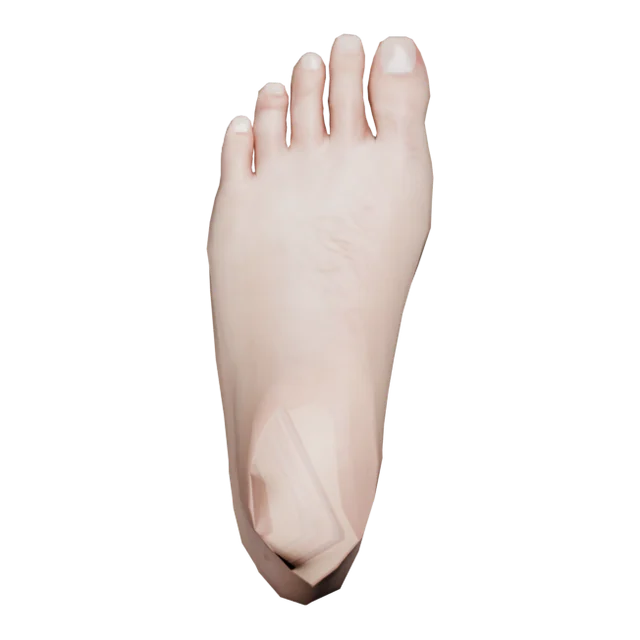
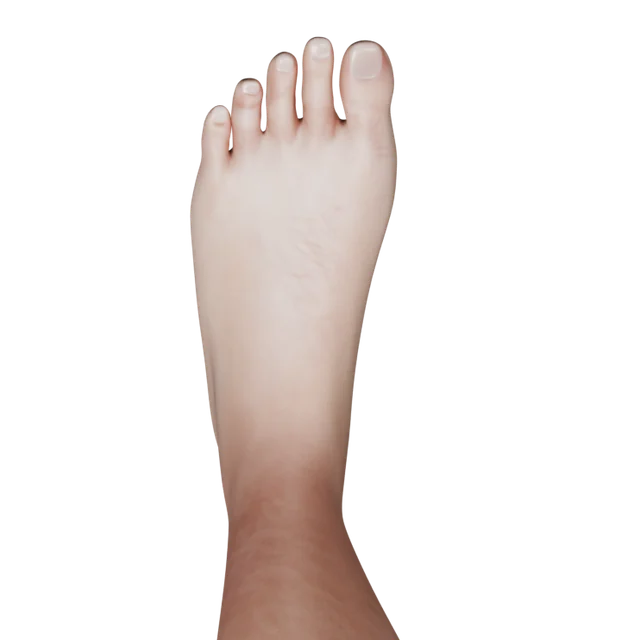
左右判断テスト: 足の画像の踵を自然に（なめらかにし、甲は斜め上から）

Changed region(s): [[0.2812, 0.0312, 0.6875, 1.0]]

diff --git a/scripts/laterality-images/render_feet.py b/scripts/laterality-images/render_feet.py
@@ -1,0 +1,134 @@
+"""MPFB(MakeHuman)の人体から左手・左足だけを残し、4方向から描画する。
+
+blender -b -P render_parts.py -- <out_dir> <skin_name>
+出力: hand-a.png / hand-b.png(手の両面), foot-dorsal.png / foot-plantar.png
+"""
+import bpy, bmesh, sys, os, math
+from mathutils import Vector
+from bl_ext.user_default.mpfb.services import LocationService, HumanService
+
+argv = sys.argv[sys.argv.index("--") + 1:]
+OUT, SKIN = argv[0], argv[1]
+os.makedirs(OUT, exist_ok=True)
+
+
+def jc(obj, name):
+    """関節キューブ(頂点グループ)の中心"""
+    gi = obj.vertex_groups[name].index
+    pts = [v.co for v in obj.data.vertices if any(g.group == gi for g in v.groups)]
+    return sum(pts, Vector()) / len(pts)
+
+
+def build():
+    bpy.ops.wm.read_factory_settings(use_empty=True)
+    h = HumanService.create_human()
+    skin = os.path.join(LocationService.get_user_data(), "skins", SKIN, SKIN + ".mhmat")
+    HumanService.set_character_skin(skin, h, skin_type="ENHANCED_SSS")
+    return h
+
+
+def keep_region(h, keep):
+    """keep(v) が False の頂点を消す(補助形状も消す)"""
+    drop = {h.vertex_groups["HelperGeometry"].index, h.vertex_groups["JointCubes"].index}
+    bm = bmesh.new()
+    bm.from_mesh(h.data)
+    dv = bm.verts.layers.deform.active
+    kill = [v for v in bm.verts if any(g in v[dv] for g in drop) or not keep(v.co)]
+    bmesh.ops.delete(bm, geom=kill, context="VERTS")
+    # 切り口の穴をふさぐ
+    edges = [e for e in bm.edges if e.is_boundary]
+    if edges:
+        bmesh.ops.holes_fill(bm, edges=edges, sides=0)
+    bmesh.ops.recalc_face_normals(bm, faces=bm.faces)
+    bm.to_mesh(h.data)
+    bm.free()
+    for m in list(h.modifiers):
+        h.modifiers.remove(m)
+
+
+def setup_render():
+    sc = bpy.context.scene
+    sc.render.engine = "CYCLES"
+    sc.cycles.samples = 96
+    sc.cycles.use_denoising = True
+    sc.render.resolution_x = 900
+    sc.render.resolution_y = 900
+    sc.render.film_transparent = True
+    sc.view_settings.view_transform = "AgX"
+    world = bpy.data.worlds.new("w")
+    sc.world = world
+    world.use_nodes = True
+    world.node_tree.nodes["Background"].inputs[1].default_value = 0.6
+
+
+def light(loc, energy, size=0.6):
+    ld = bpy.data.lights.new("l", "AREA")
+    ld.energy = energy
+    ld.size = size
+    lo = bpy.data.objects.new("l", ld)
+    bpy.context.collection.objects.link(lo)
+    lo.location = loc
+    lo.rotation_euler = (Vector(loc) * -1).to_track_quat("-Z", "Y").to_euler()
+    return lo
+
+
+def shoot(target, normal, up, dist, name, ortho):
+    sc = bpy.context.scene
+    cam_d = bpy.data.cameras.new("c")
+    cam_d.type = "ORTHO"
+    cam_d.ortho_scale = ortho
+    cam = bpy.data.objects.new("c", cam_d)
+    bpy.context.collection.objects.link(cam)
+    sc.camera = cam
+    pos = target + normal.normalized() * dist
+    cam.location = pos
+    cam.rotation_euler = (target - pos).to_track_quat("-Z", "Y").to_euler()
+    # 上方向を up に合わせる
+    q = (target - pos).to_track_quat("-Z", "Y")
+    cur_up = q @ Vector((0, 1, 0))
+    fwd = (target - pos).normalized()
+    want = (up - fwd * up.dot(fwd)).normalized()
+    ang = math.atan2(cur_up.cross(want).dot(fwd), cur_up.dot(want))
+    from mathutils import Quaternion
+    cam.rotation_euler = (Quaternion(fwd, ang) @ q).to_euler()
+    # 光: カメラ側から2灯
+    side = fwd.cross(want).normalized()
+    ls = [light(pos + want * 0.5 + side * 0.4, 60), light(pos - side * 0.6, 25)]
+    sc.render.filepath = os.path.join(OUT, name)
+    bpy.ops.render.render(write_still=True)
+    for o in ls + [cam]:
+        bpy.data.objects.remove(o)
+
+
+# ---------- 足(なめらかにして描き直す) ----------
+def smooth(h, levels=2):
+    m = h.modifiers.new("subd", "SUBSURF")
+    m.levels = levels
+    m.render_levels = levels
+
+
+h = build()
+ankle = jc(h, "joint-l-ankle")
+knee = jc(h, "joint-l-knee")
+toe = jc(h, "joint-l-toe-3-4") if "joint-l-toe-3-4" in h.vertex_groups else jc(h, "joint-l-toe-2-3")
+leg = (ankle - knee).normalized()
+fwd_dir = Vector((toe.x - ankle.x, toe.y - ankle.y, 0)).normalized()
+setup_render()
+
+# 足の裏: すねは足の陰に隠れるので短くてよい
+keep_region(h, lambda c: c.x > 0.05 and (c - ankle).dot(leg) > -0.03 and (c - ankle).length < 0.3)
+smooth(h)
+center = ankle + (toe - ankle) * 0.4
+center.z = ankle.z * 0.5
+shoot(center, Vector((0, 0, -1)), fwd_dir, 1.2, "foot-plantar.png", 0.36)
+
+# 足の甲: すねを長めに残し、つま先の前・斜め上から見る(すねは画面の上へ抜ける)
+h2 = build()
+setup_render()
+keep_region(h2, lambda c: c.x > 0.05 and (c - ankle).dot(leg) > -0.4 and (c - ankle).length < 0.6)
+smooth(h2)
+view = (fwd_dir * 0.55 + Vector((0, 0, 1))).normalized()
+target = ankle + (toe - ankle) * 0.35
+target.z = ankle.z * 0.6 + 0.02
+shoot(target, view, Vector((0, 0, 1)), 1.4, "foot-dorsal.png", 0.34)
+print("DONE")
